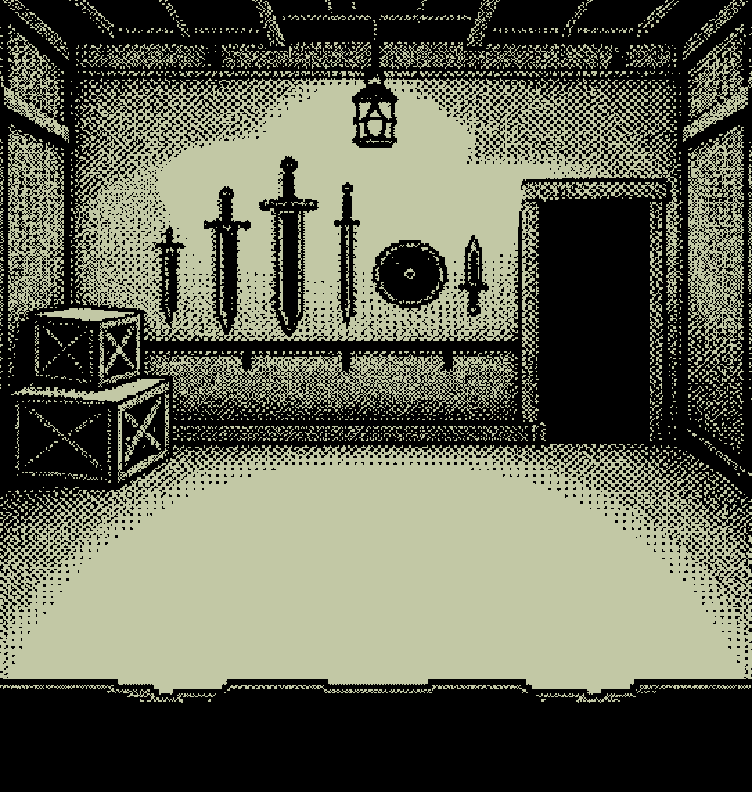
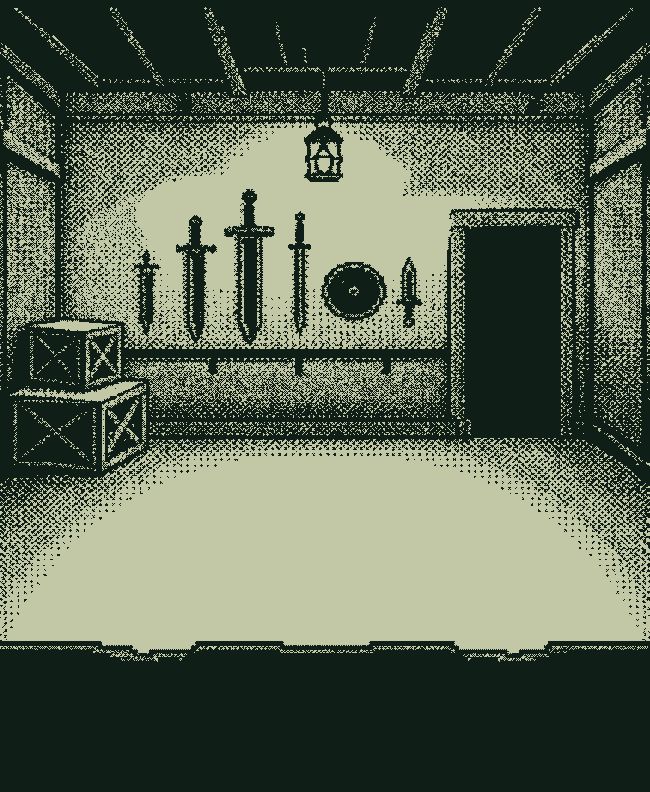
[codex] art: preserve source aspect in screen layouts

diff --git a/src/ui/layout.ts b/src/ui/layout.ts
@@ -1,55 +1,48 @@
 /**
- * 04-UI-KIT §1 — 모든 좌표는 이 상수를 쓴다. 씬에서 좌표를 새로 정하지 않는다.
+ * Shared 1920×1080 layout.
  *
- * v3.1 아트 개편 — 기준 해상도 480x270 → **1920x1080**.
- * LIVE 5분할은 구 값의 정확히 4배, 상점 화면은 레퍼런스에 맞춰 새로 잡았다.
+ * The shop and broadcast art sets define these measurements. UI is positioned
+ * around the artwork rather than stretching the artwork to a generic grid.
  */
 export const L = {
   W: 1920,
   H: 1080,
 
-  // ── 공통 HUD (상단 144) — 액자 박스 2개 + 도구 띠
   hud: { x: 0, y: 0, w: 1920, h: 144 },
-  hudStatus: { x: 8, y: 16, w: 752, h: 112 },   // DAY · LIVE · 골드/팬/평판
-  hudTools: { x: 768, y: 16, w: 1144, h: 112 }, // 시계 · 날짜 · 저장 · 장부 · 옵션
+  hudStatus: { x: 8, y: 16, w: 752, h: 112 },
+  hudTools: { x: 768, y: 16, w: 1144, h: 112 },
+  stage: { x: 0, y: 144, w: 1920, h: 936 },
 
-  stage: { x: 0, y: 144, w: 1920, h: 936 },     // 단계별 본문 영역
-
-  // ── ①② 상점 화면 — 2분할 + 하단 4택 (레퍼런스 정본)
-  guest: { x: 0, y: 144, w: 752, h: 792 },      // 좌: 방문자 / 출연자 전신
-  dialogue: { x: 0, y: 936, w: 752, h: 144 },   // 좌하: 대사 한 줄 + ▼
-  bench: { x: 768, y: 144, w: 1152, h: 792 },   // 우: 작업대 (램프·장부·도장)
-  actions: { x: 768, y: 936, w: 1152, h: 144 }, // 우하: 蘇生 販売 交渉 出撃
-  /** 상점이 아닌 단계(④⑤⑥)의 전폭 액션 바 — 좌측에 인물이 없으므로 화면 전체를 쓴다 */
+  // Source art: room 1086×1324, bench 1748×1112. These preserve both ratios.
+  guest: { x: 0, y: 144, w: 650, h: 792 },
+  dialogue: { x: 0, y: 936, w: 650, h: 144 },
+  bench: { x: 668, y: 144, w: 1244, h: 792 },
+  actions: { x: 668, y: 936, w: 1244, h: 144 },
   actionsFull: { x: 0, y: 936, w: 1920, h: 144 },
 
-  // ── ③ LIVE 전용 — 5분할. 104+496+744+576 = 1920 / 64+1016 = 1080
+  // Broadcast composition follows the supplied desk, map, battle and portrait art.
   live: {
-    bar: { x: 0, y: 0, w: 1920, h: 64 },           // LIVE · 방송 제목 · 시청자 수
-    floors: { x: 0, y: 64, w: 104, h: 1016 },      // 층수 게이지 (아래로 깊어짐)
-    map: { x: 104, y: 64, w: 496, h: 536 },        // 던전 지도 + 현재 위치
-    radio: { x: 104, y: 600, w: 496, h: 480 },     // 무전기 (진짜 지도는 여기에만)
-    combat: { x: 600, y: 64, w: 744, h: 720 },     // 1인칭 전투 화면
-    choices: { x: 600, y: 784, w: 744, h: 296 },   // 공격 / 방어 / 어필
-    portrait: { x: 1344, y: 64, w: 576, h: 400 },  // 용사 초상 (상태 변화)
-    chat: { x: 1344, y: 464, w: 576, h: 616 },     // 채팅
+    bar: { x: 0, y: 0, w: 1920, h: 144 },
+    floors: { x: 0, y: 144, w: 104, h: 792 },
+    map: { x: 104, y: 144, w: 616, h: 792 },
+    radio: { x: 704, y: 576, w: 384, h: 360 },
+    combat: { x: 720, y: 144, w: 1000, h: 792 },
+    choices: { x: 1040, y: 936, w: 840, h: 144 },
+    portrait: { x: 1560, y: 176, w: 336, h: 400 },
+    chat: { x: 832, y: 320, w: 360, h: 240 },
   },
 
-  // ── ② 계약서 심사 (모드A) — guest 는 위 공용 값을 그대로 쓴다
+  // Contract sheet sits on the paper-shaped central area of the workbench.
   office: {
-    paper: { x: 768, y: 144, w: 1152, h: 792 },    // 계약서 전면
+    paper: { x: 928, y: 168, w: 640, h: 720 },
   },
 
-  // ── 3칸 그리드 (진열대 / 캐스팅 / 검시 선택지). 작업대 위쪽에 놓인다
-  slot3: { x: 1024, y: 240, w: 224, h: 272, gap: 16 },
-
+  slot3: { x: 1008, y: 240, w: 224, h: 272, gap: 16 },
   pad: 24,
   line: 2,
 } as const;
 
-/** 슬롯 x 좌표: 1024, 1264, 1504 — 오른쪽 여백 192 는 도장·두루마리 자리 */
 export const slotX = (i: number): number => L.slot3.x + i * (L.slot3.w + L.slot3.gap);
 
-/** 하단 4택 x 좌표: 792, 1071, 1350, 1629 (폭 267, 사이 12) */
-export const ACTION_W = 267;
+export const ACTION_W = 290;
 export const actionX = (i: number): number => L.actions.x + L.pad + i * (ACTION_W + 12);

diff --git a/src/scenes/TitleScene.ts b/src/scenes/TitleScene.ts
@@ -65,11 +65,12 @@ export class TitleScene extends Phaser.Scene {
     }
 
     // 제목 — 로고 아트가 오면 글자 대신 그것을 건다
-    this.veil(560, 168, 800, 168);
+    // Preserve the painted storefront: title occupies the empty upper wall.
+    this.veil(500, 72, 920, 280);
     // 로고는 **본 아트일 때만** 건다. 플레이스홀더 로고는 테두리 친 상자라서
     // 배경 그림 위에 얹으면 하늘을 가리는 흰 판이 된다 — 그럴 바엔 글자가 낫다.
     if (isFinalArt('ui.logo') && hasTexture(this, 'ui.logo')) {
-      this.add.image(BASE_W / 2, 256, assetKey('ui.logo')).setOrigin(0.5);
+      this.add.image(BASE_W / 2, 156, assetKey('ui.logo')).setOrigin(0.5);
     } else {
       // 자간을 벌려 간판처럼
       this.add
@@ -84,14 +85,17 @@ export class TitleScene extends Phaser.Scene {
     const bw = 528;
     const bh = 96;
     const gap = 48;
-    const left = Math.round((BASE_W - bw * 2 - gap) / 2);
+    // Keep the centre counter clear; actions use the two open lower-side bays.
+    const left = 120;
+    const right = BASE_W - 120 - bw;
     // 464 였다. 본 아트가 들어오면서 80px 올렸다 — 그 자리가 정확히 진열창이고,
     // 창의 불빛은 이 그림에서 유일하게 움직이는 것이다. 버튼으로 덮으면 깜빡임이 사라진다.
-    const top = 384;
+    const top = 656;
 
     // 버튼 판 아래를 깔아 둔다. 버튼 자체는 불투명하지만 두 열 사이 48px 틈으로
     // 배경이 그대로 새어 나와 밝은 세로줄처럼 보인다.
-    this.veil(left - 24, top - 24, bw * 2 + gap + 48, bh * 2 + gap + 48);
+    this.veil(left - 24, top - 24, bw + 48, bh * 2 + gap + 48);
+    this.veil(right - 24, top - 24, bw + 48, bh * 2 + gap + 48);
 
     new Button(this, {
       x: left, y: top, w: bw, h: bh,
@@ -99,7 +103,7 @@ export class TitleScene extends Phaser.Scene {
       onClick: () => this.startNewGame(),
     });
     new Button(this, {
-      x: left + bw + gap, y: top, w: bw, h: bh,
+      x: right, y: top, w: bw, h: bh,
       label: '이어하기', hotkey: '2',
       enabled: hasSavedRun(),
       onClick: () => this.continueGame(),
@@ -110,15 +114,15 @@ export class TitleScene extends Phaser.Scene {
       onClick: () => this.scene.start(SCENES.OPTIONS),
     });
     new Button(this, {
-      x: left + bw + gap, y: top + bh + gap, w: bw, h: bh,
+      x: right, y: top + bh + gap, w: bw, h: bh,
       label: '조작 안내', hotkey: '4', variant: 'ghost',
       onClick: () => this.scene.start(SCENES.HELP),
     });
 
     // 이 한 줄은 보도 위에 앉는다 — 거기가 그림에서 가장 밝은 자리다
-    this.veil(640, 816, 640, 72);
+    this.veil(640, 984, 640, 72);
     this.add
-      .text(BASE_W / 2, 848, '당신은 한 세계를 속이고 있다.', { ...FONT, color: css('bone') })
+      .text(BASE_W / 2, 1016, '당신은 한 세계를 속이고 있다.', { ...FONT, color: css('bone') })
       .setOrigin(0.5);
 
     // 폰트 폴백 여부를 화면에 남긴다 (수용 기준 4 확인용)

diff --git a/src/scenes/phases/LivePhase.ts b/src/scenes/phases/LivePhase.ts
@@ -245,15 +245,15 @@ export class LivePhase extends PhaseScene {
   private buildBar(s: Readonly<GameState>): void {
     const v = L.live;
     this.rect(v.bar.x, v.bar.y, v.bar.w, v.bar.h, 'ink');
-    this.blinkers.push(this.dot(L.pad, 24, 16, 'wax'));
-    this.text(L.pad + 32, 12, 'LIVE', 'wax');
+    this.blinkers.push(this.dot(L.pad, v.bar.y + 64, 16, 'wax'));
+    this.text(L.pad + 32, v.bar.y + 52, 'LIVE', 'wax');
 
     const persona = s.personas.find((p) => p.id === s.today?.personaId);
     const title = `${persona?.displayName ?? '무명 방송'} · ${s.today?.claimedCeiling ?? 0}층 도전`;
-    this.text(L.pad + 160, 12, this.clip(title, 900), 'bone');
+    this.text(L.pad + 160, v.bar.y + 52, this.clip(title, 900), 'bone');
 
-    this.textRight(L.W - L.pad, 12, `시청자 ${fmtFans(s.fans)}`, 'dust');
-    if (this.time.now < this.fanDropUntil) this.textRight(L.W - L.pad - 320, 12, '▼', 'wax');
+    this.textRight(L.W - L.pad, v.bar.y + 52, `시청자 ${fmtFans(s.fans)}`, 'dust');
+    if (this.time.now < this.fanDropUntil) this.textRight(L.W - L.pad - 320, v.bar.y + 52, '▼', 'wax');
   }
 
   /* ── ② 좌측 층수 게이지 — 아래로 깊어진다 (M06 §6) ──── */
@@ -349,9 +349,11 @@ export class LivePhase extends PhaseScene {
       { label: 'B 로 가', dir: 'B', hotkey: '2' },
       { label: '나도 몰라', dir: 'UNKNOWN', hotkey: '3' },
     ];
+    const answerGap = 8;
+    const answerW = Math.floor((inner - answerGap * 2) / 3);
     answers.forEach((a, i) => {
       new Button(this, {
-        x: v.x + L.pad, y: v.y + 284 + i * 66, w: inner, h: 58,
+        x: v.x + L.pad + i * (answerW + answerGap), y: v.y + 292, w: answerW, h: 48,
         label: a.label, hotkey: a.hotkey,
         variant: a.dir === 'UNKNOWN' ? 'ghost' : 'default',
         onClick: () => this.store.dispatch({ type: 'RADIO/ANSWER', dir: a.dir }),
@@ -413,9 +415,11 @@ export class LivePhase extends PhaseScene {
       { label: '방어한다', choice: 'DEFEND', hotkey: '2' },
       { label: '어필한다', choice: 'APPEAL', hotkey: '3' },
     ];
+    const gap = 16;
+    const buttonW = Math.floor((v.w - L.pad * 2 - gap * 2) / 3);
     choices.forEach((c, i) => {
       new Button(this, {
-        x: v.x + L.pad, y: v.y + L.pad + i * 88, w: v.w - L.pad * 2, h: 72,
+        x: v.x + L.pad + i * (buttonW + gap), y: v.y + L.pad, w: buttonW, h: v.h - L.pad * 2,
         label: c.label, hotkey: c.hotkey,
         variant: c.choice === 'APPEAL' ? 'danger' : 'default',
         enabled: ready,

diff --git a/src/scenes/phases/OfficePhase.ts b/src/scenes/phases/OfficePhase.ts
@@ -370,20 +370,20 @@ export class OfficePhase extends PhaseScene {
       const sheet = s.visitors[this.contractIndex];
       const by = paper.y + paper.h - L.pad * 4 - 104;
       new Button(this, {
-        x: paper.x + L.pad * 4, y: by, w: 300, h: 64,
+        x: paper.x + 48, y: by, w: 240, h: 64,
         label: '계약한다', hotkey: '5',
         enabled: sheet !== undefined && s.gold >= sheet.fee,
         onClick: () => sheet && this.store.dispatch({ type: 'OFFICE/CONTRACT_ACCEPT', starId: sheet.starId }),
       });
       new Button(this, {
-        x: paper.x + L.pad * 4 + 324, y: by, w: 300, h: 64,
+        x: paper.x + paper.w - 288, y: by, w: 240, h: 64,
         label: '돌려보낸다', hotkey: '6', variant: 'danger',
         enabled: sheet !== undefined,
         onClick: () => sheet && this.store.dispatch({ type: 'OFFICE/CONTRACT_REJECT', starId: sheet.starId }),
       });
       if (s.visitors.length > 1) {
         new Button(this, {
-          x: paper.x + L.pad * 4 + 648, y: by, w: 220, h: 64,
+          x: paper.x + paper.w - 192, y: paper.y + 32, w: 144, h: 48,
           label: '次 다음 장', hotkey: '7', variant: 'ghost',
           onClick: () => {
             this.contractIndex = (this.contractIndex + 1) % s.visitors.length;
